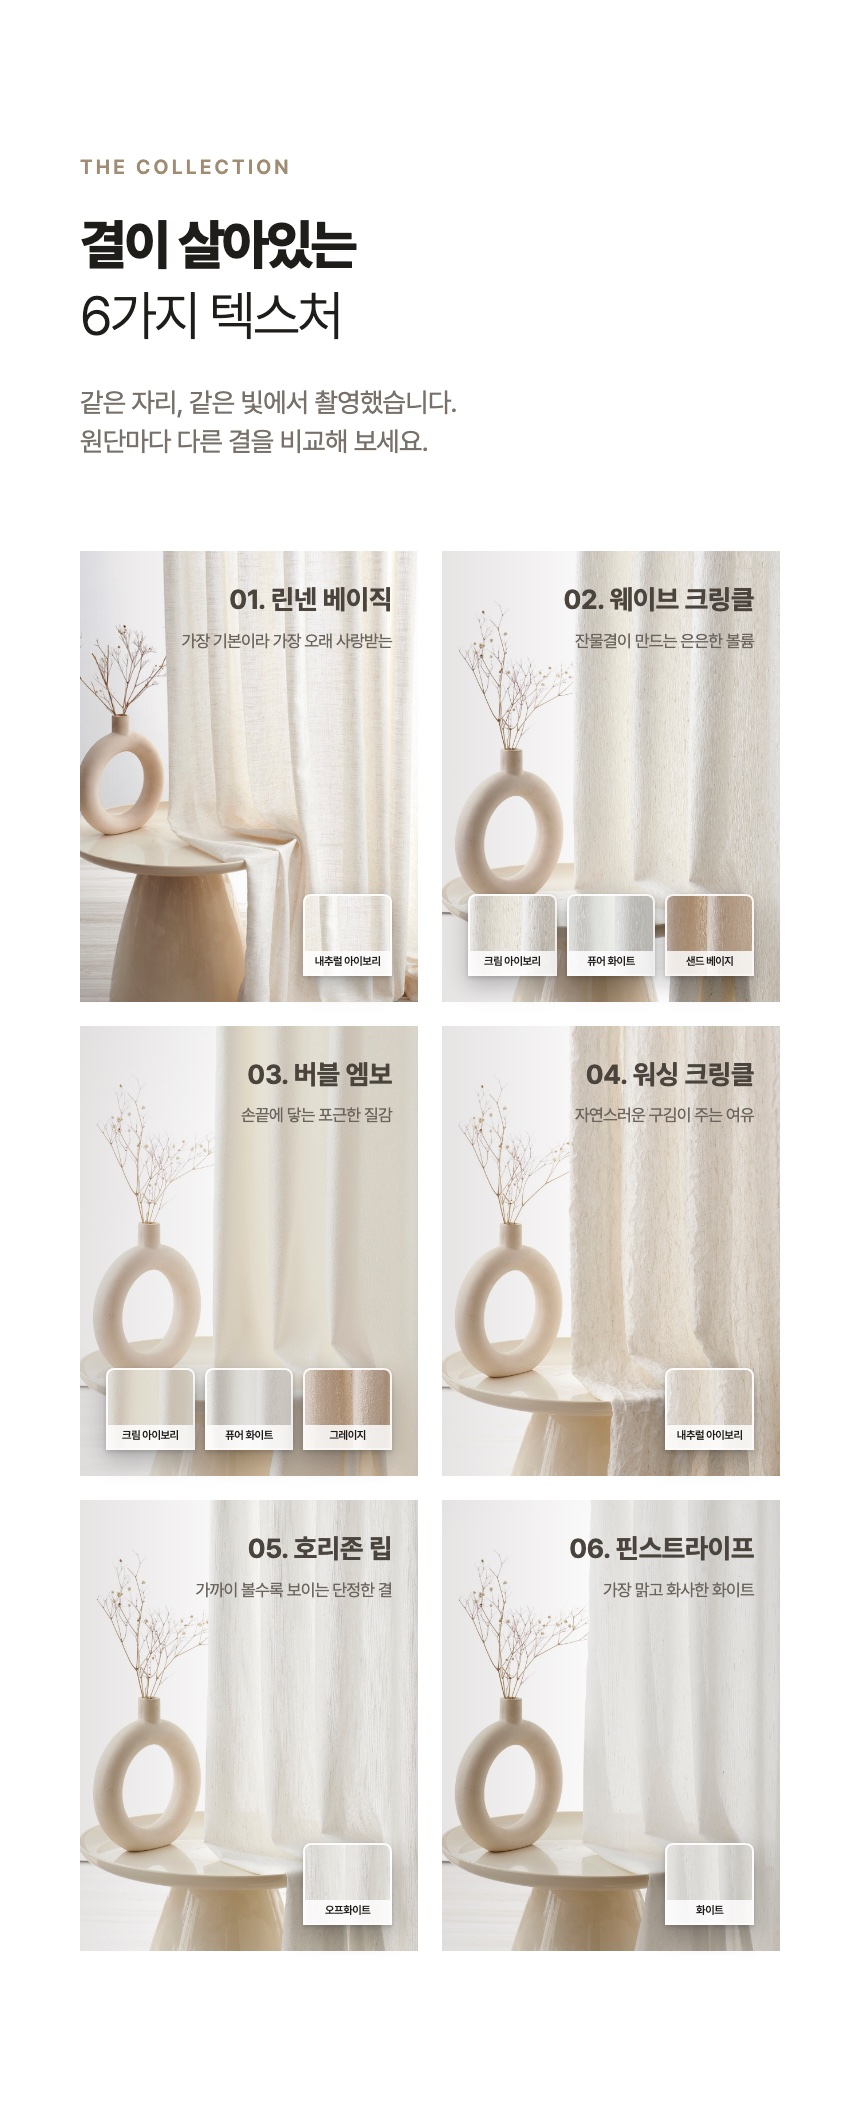
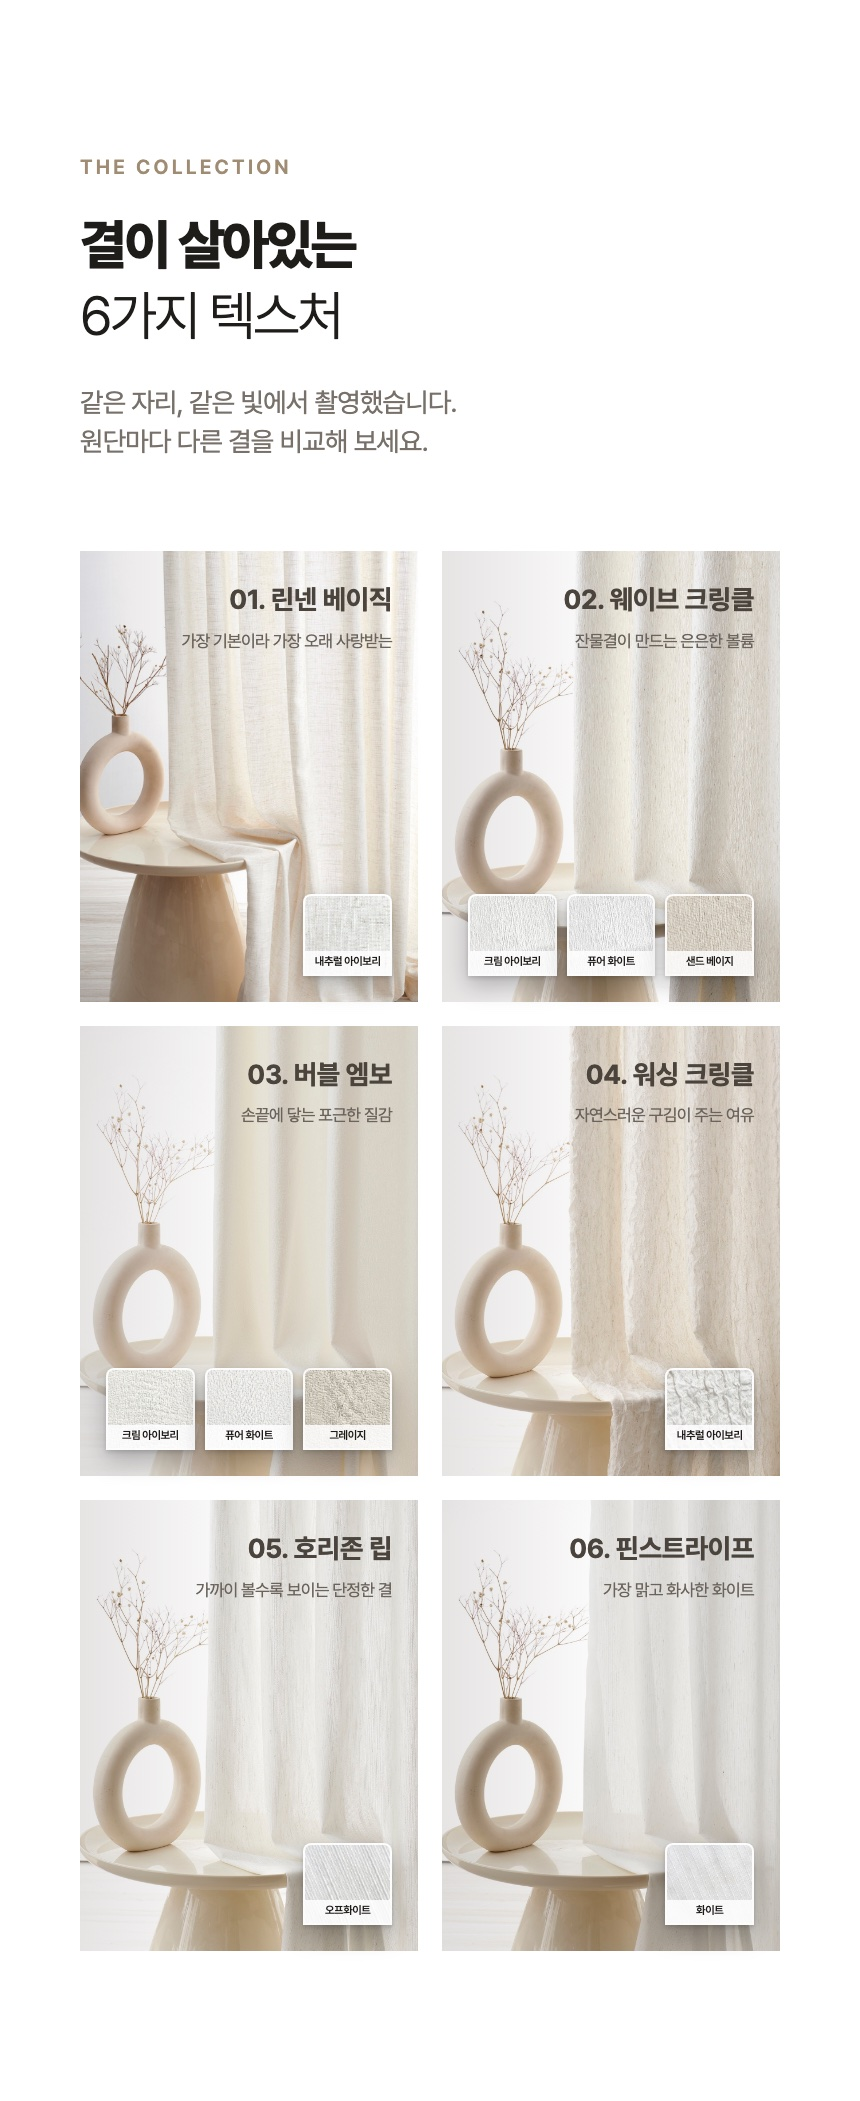
05 컬렉션소개: 컬러별 스와치 이미지 적용 (호리존 립·핀스트라이프 확대)

diff --git a/moel-sheer-curtain/naver/index.html b/moel-sheer-curtain/naver/index.html
@@ -195,7 +195,7 @@ b, strong { font-weight: 700; }
 .lineup .cell .sws { display: flex; justify-content: flex-end; gap: 10px; align-self: stretch; }   .lineup .cell .swatch { position: relative; }
 .lineup .cell .swatch small { position: absolute; left: 0; right: 0; bottom: 0; padding: 4px 3px 5px; background: rgba(255,255,255,.82);
   color: var(--ink); font-size: 11px; font-weight: 600; letter-spacing: -.04em; line-height: 1.25; text-align: center; white-space: nowrap; }
-.lineup .cell .swatch { flex: 0 0 calc((100% - 20px) / 3); height: 82px; background-size: 360% auto; background-position: 78% 38%;      border: 2px solid rgba(255,255,255,.9); border-radius: 8px 8px 0 0; box-shadow: 0 2px 4px rgba(0,0,0,.14), 0 10px 24px rgba(0,0,0,.26); }
+.lineup .cell .swatch { flex: 0 0 calc((100% - 20px) / 3); height: 82px; background-size: cover; background-position: center;      border: 2px solid rgba(255,255,255,.9); border-radius: 8px 8px 0 0; box-shadow: 0 2px 4px rgba(0,0,0,.14), 0 10px 24px rgba(0,0,0,.26); }
 .lineup .cell p { font-size: 21px; color: var(--sub); line-height: 1.5; margin-top: 4px; }
 .sw { width: 30px; height: 30px; border: 1px solid rgba(0,0,0,.12); }
 
@@ -457,6 +457,7 @@ body.final .todo { display: none; }
 .dot-em .d::before { content: ''; position: absolute; left: 50%; top: 0; width: 7px; height: 7px; margin-left: -3.5px;
   border-radius: 50%; background: currentColor; }
 
+.lineup .cell .swatch[data-code="007-12-1"], .lineup .cell .swatch[data-code="007-13-1"] { background-size: 250% auto; }
 
 </style>
 <script>
@@ -722,7 +723,6 @@ const LIMIT = { maxHeight: 260, maxSingle: 240 };
   <h2 class="h2">결이 살아있는<br><span class="light">6가지 텍스처</span></h2>
   <p class="body">같은 자리, 같은 빛에서 촬영했습니다.<br>원단마다 다른 결을 비교해 보세요.</p>
   <div class="lineup" id="lineup"></div>
-  <p class="mnote"></p>
 </section>
 
 <section data-sec="06_빛비침비교" class="sec stone">
@@ -1130,7 +1130,7 @@ const LIMIT = { maxHeight: 260, maxSingle: 240 };
   document.querySelectorAll('[data-collection]').forEach(e => e.textContent = BRAND.collection);
   document.querySelectorAll('[data-collection-ko]').forEach(e => e.textContent = BRAND.collectionKo);
 
-  const swatch = (c, label) => `<div class="swatch" style="background-image:url(${PHOTO}${c.code}_vase.jpg);background-color:${c.hex}"><small>${label}</small></div>`;
+  const swatch = (c, label) => `<div class="swatch" data-code="${c.code}" style="background-image:url(${PHOTO}${c.code}_swatch.jpg);background-color:${c.hex}"><small>${label}</small></div>`;
 
   document.getElementById('lineup').innerHTML = FABRICS.map(f => `
     <div class="cell">
